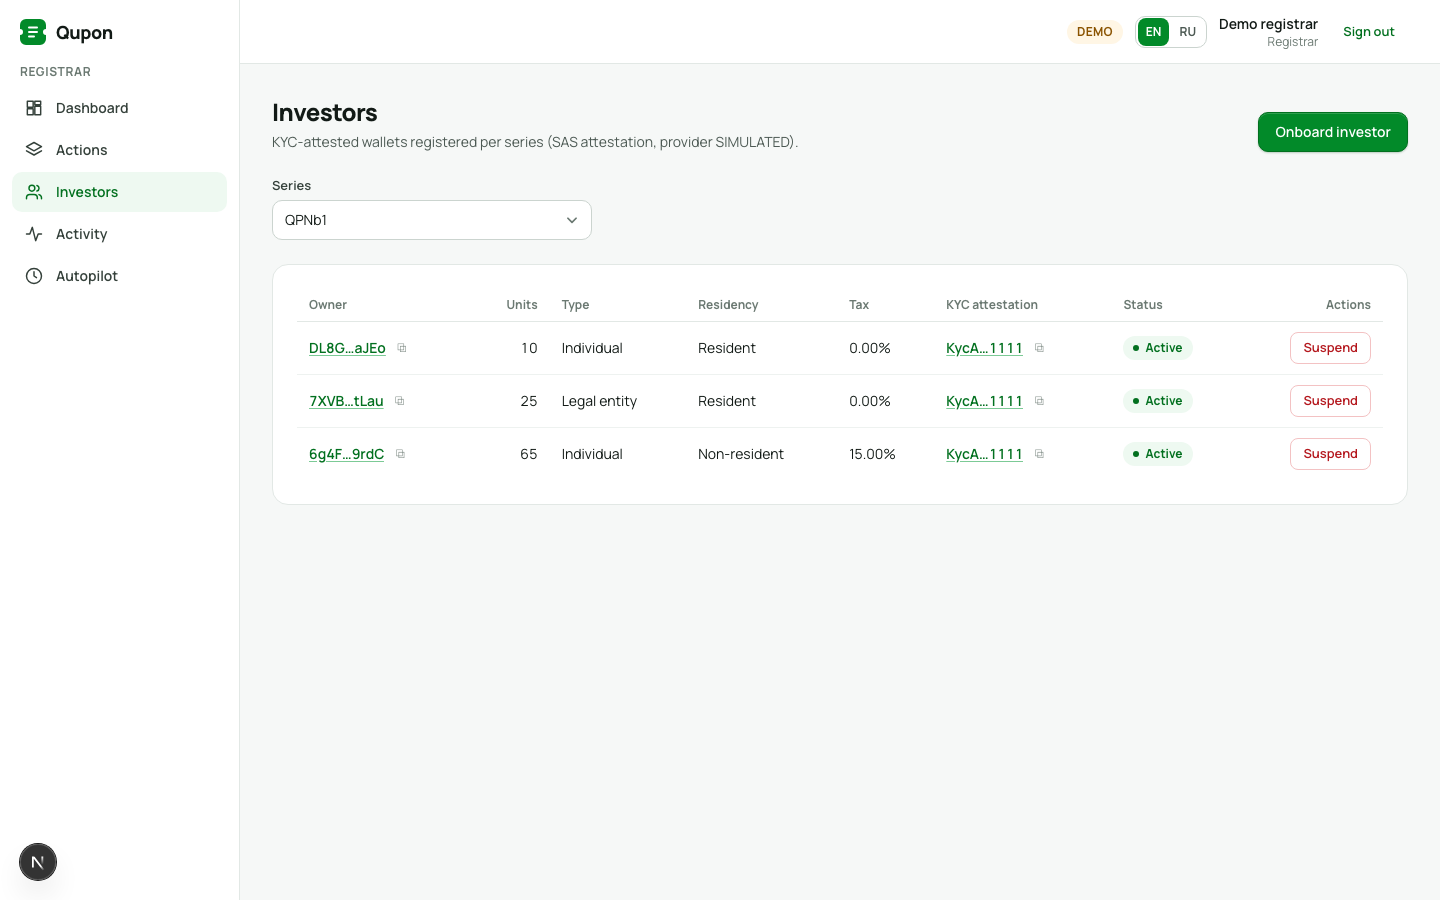
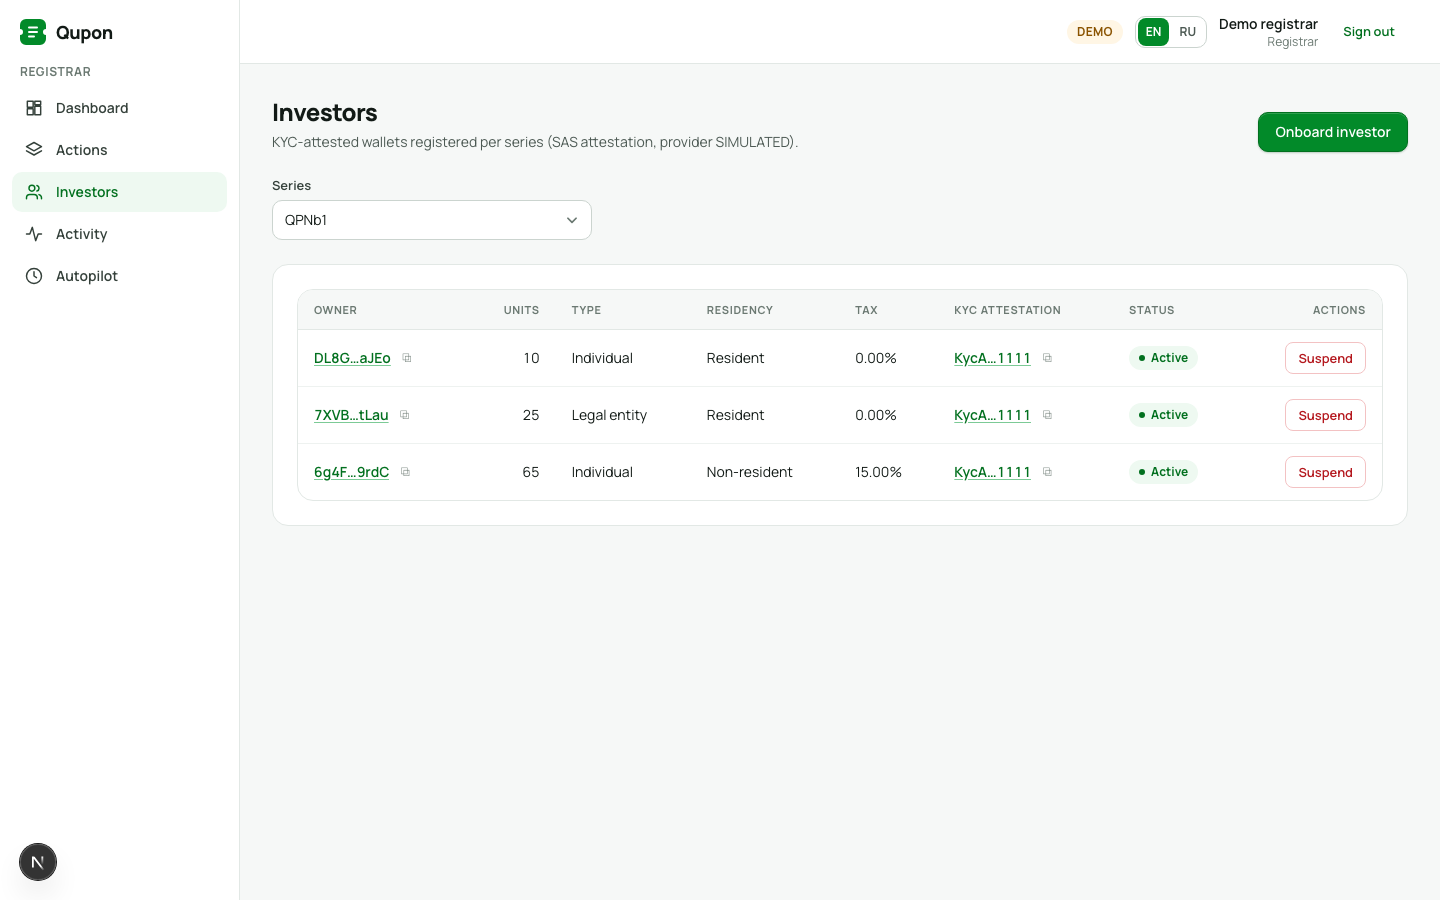
fix(web): merge registrar message namespaces after rebase; adapt investors table to shared DataTable
The rebase onto main (tasks 304/305 added registrar.activity/autopilot and the shared DataTable) left two top-level registrar keys in messages/{en,ru}.json (JSON keeps the last, so dash/investors rendered as raw keys) and the investors page still used the local Column value/mono props. Merged the namespaces, switched to render-only columns, re-ran vitest (87) + e2e (31) + make verify; screenshots refreshed.

task: 303

diff --git a/apps/web/src/app/(cabinet)/registrar/investors/page.tsx b/apps/web/src/app/(cabinet)/registrar/investors/page.tsx
@@ -27,39 +27,36 @@ export default async function RegistrarInvestors({
     {
       key: "owner",
       header: t("owner"),
-      mono: true,
       render: (r) => <Address value={r.owner} />,
     },
     {
       key: "units",
       header: t("units"),
-      mono: true,
       align: "right",
-      value: (r) => r.units,
+      render: (r) => <span className="num">{r.units}</span>,
     },
     {
       key: "type",
       header: t("type"),
       hideBelow: "md",
-      value: (r) => (r.investorType ? t(`types.${r.investorType}`) : t("none")),
+      render: (r) => (r.investorType ? t(`types.${r.investorType}`) : t("none")),
     },
     {
       key: "residency",
       header: t("residency"),
       hideBelow: "md",
-      value: (r) => (r.residency ? t(`residencies.${r.residency}`) : t("none")),
+      render: (r) => (r.residency ? t(`residencies.${r.residency}`) : t("none")),
     },
     {
       key: "tax",
       header: t("tax"),
       hideBelow: "md",
-      value: (r) =>
+      render: (r) =>
         r.taxRateBps != null ? bpsToPercent(r.taxRateBps) : t("none"),
     },
     {
       key: "kyc",
       header: t("kyc"),
-      mono: true,
       render: (r) =>
         r.kycRef ? (
           <Address value={r.kycRef} />
